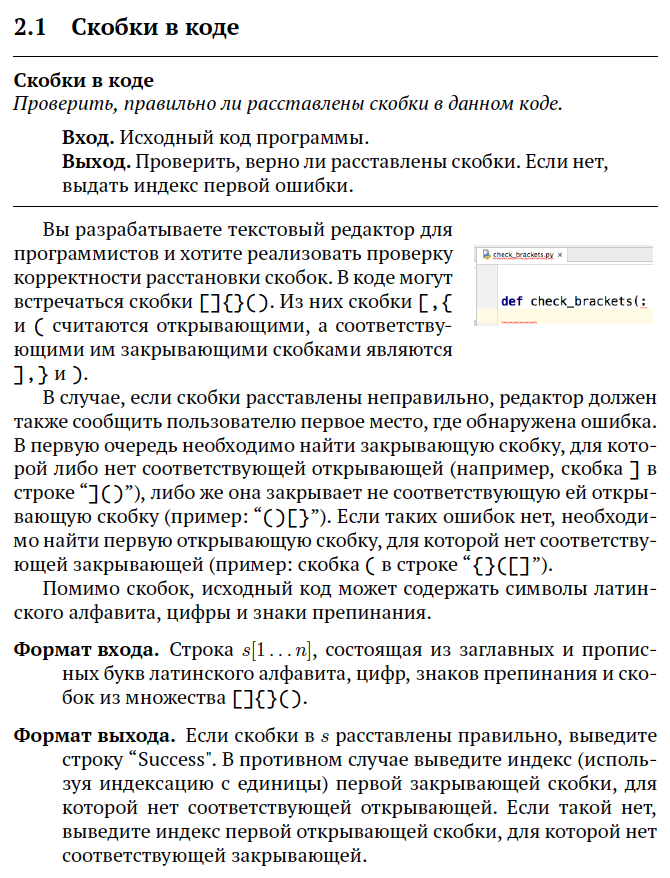
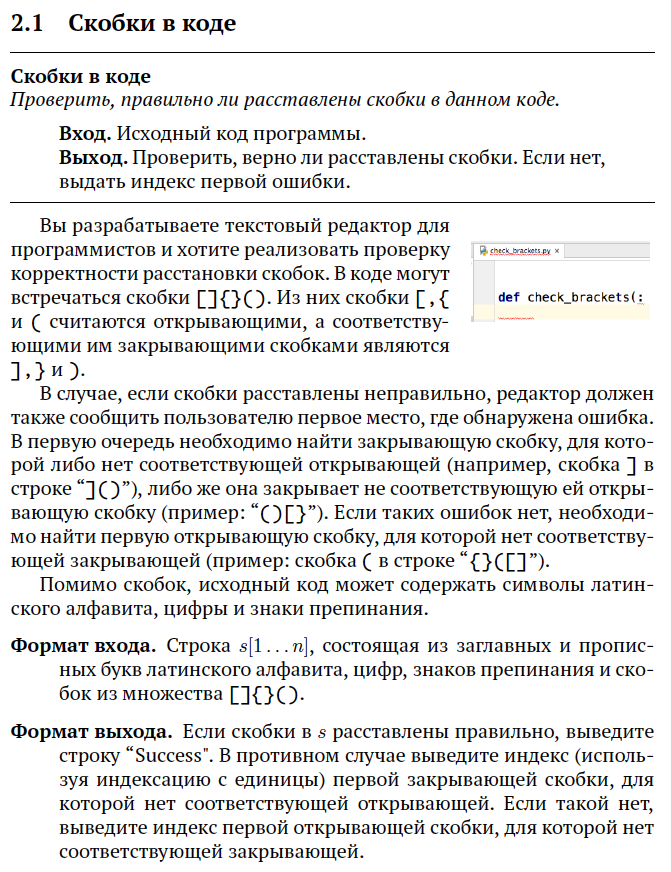
add tests, hide images

Changed region(s): [[0.0, 0.0, 0.9851, 0.9908]]

diff --git a/stepik/course-1547/README.md b/stepik/course-1547/README.md
@@ -4,12 +4,22 @@
 
 ### [Степ 1](https://stepik.org/lesson/41234/step/1)
 
+<details>
+<summary><strong>Условие задачи</strong></summary>
+
 ![Условие задачи](lesson-41234/step-1/challenge.png)
 
-[Решение](lesson-41234/step-1/main.go)
+</details>
+
+[Решение](lesson-41234/step-1/main.go), [тесты](lesson-41234/step-1/main_test.go).
 
 ### [Степ 2](https://stepik.org/lesson/41234/step/2)
 
+<details>
+<summary><strong>Условие задачи</strong></summary>
+
 ![Условие задачи](lesson-41234/step-2/challenge.png)
 
-[Решение](lesson-41234/step-2/main.go)
+</details>
+
+[Решение](lesson-41234/step-2/main.go), [тесты](lesson-41234/step-2/main_test.go).
